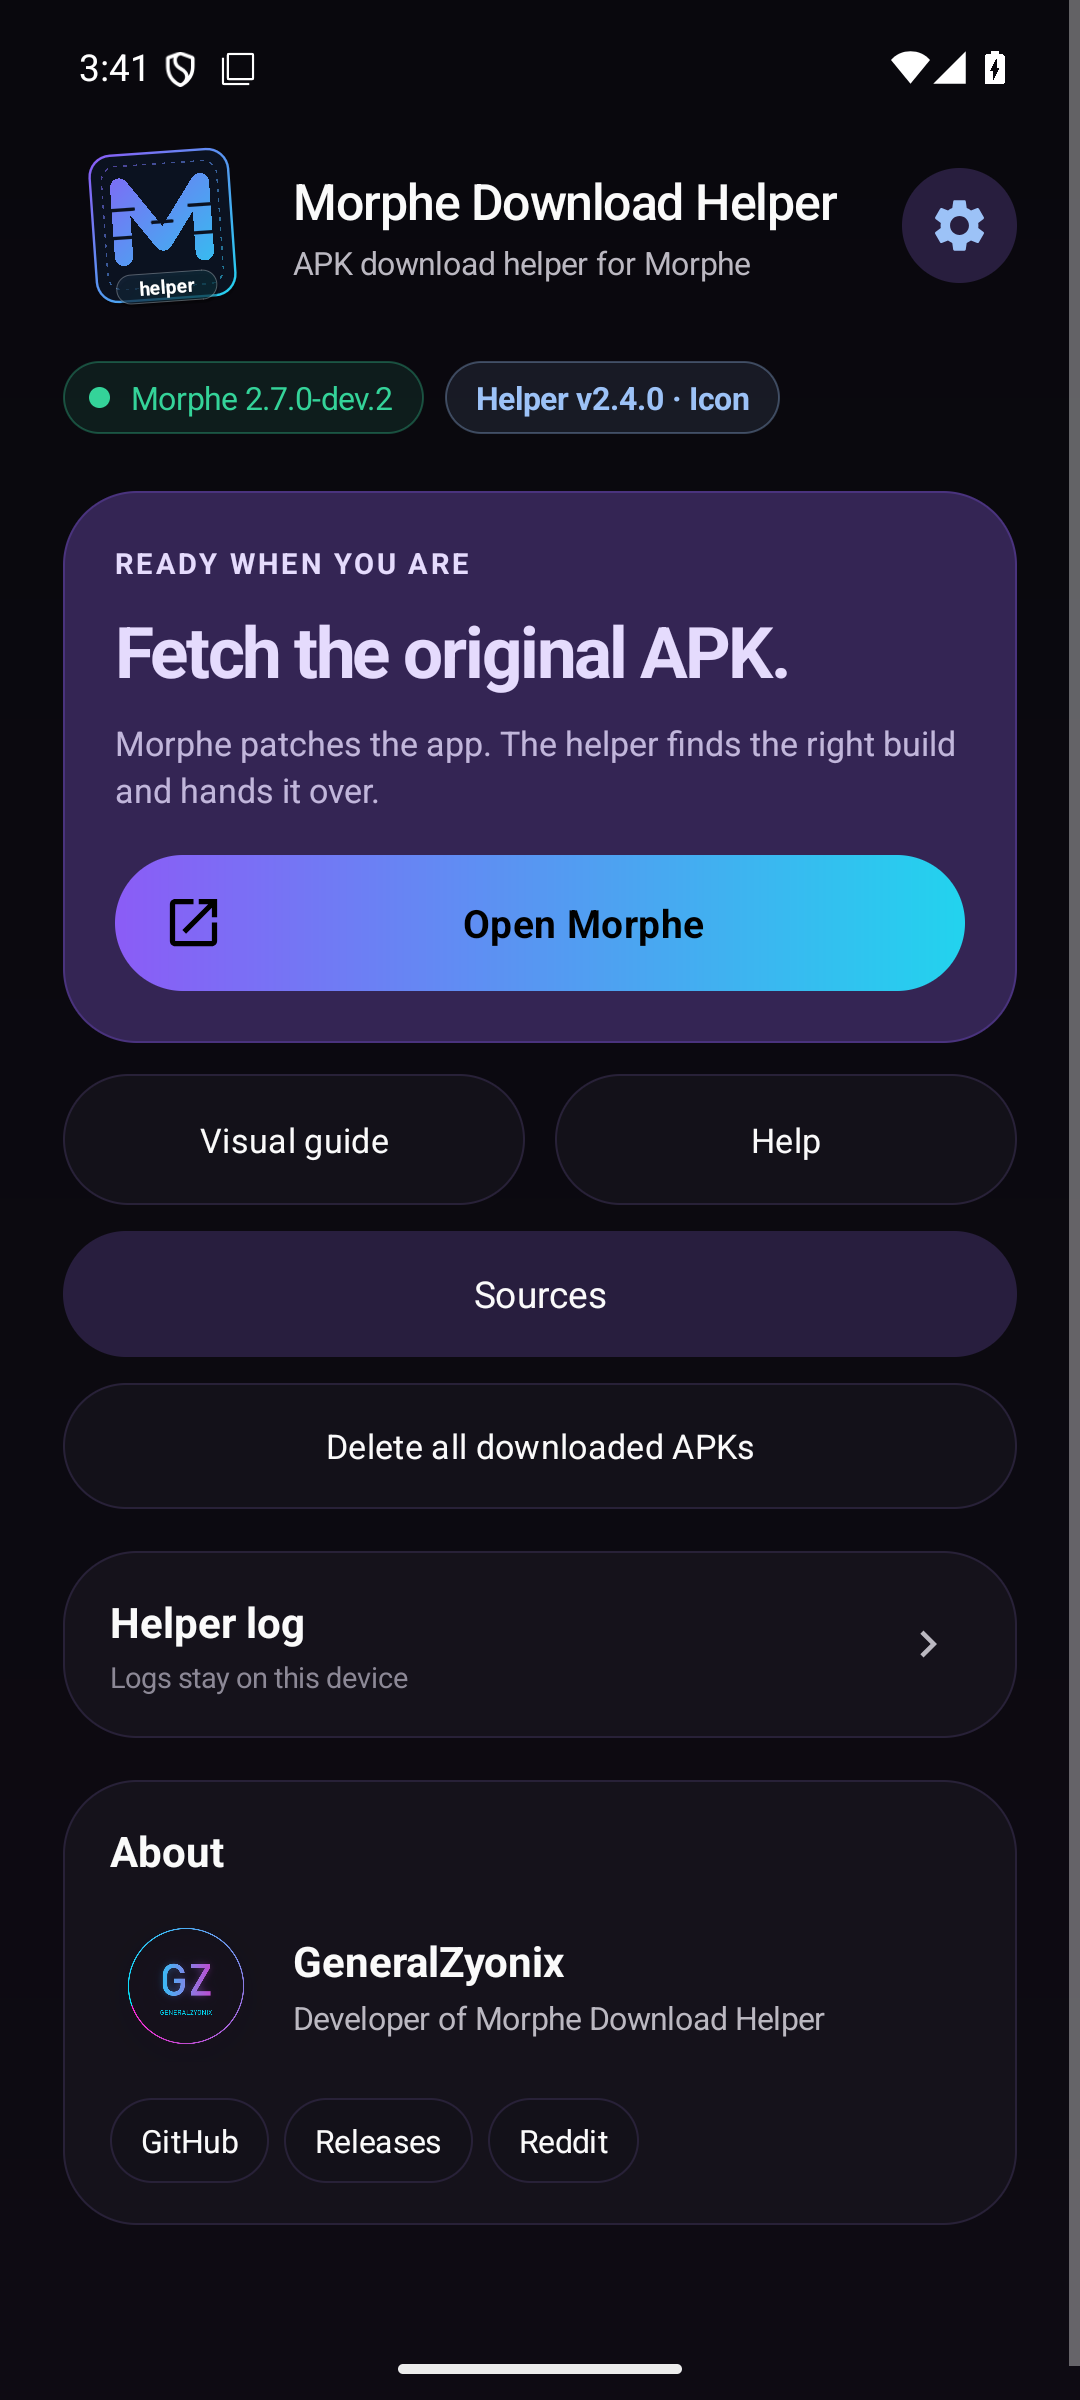
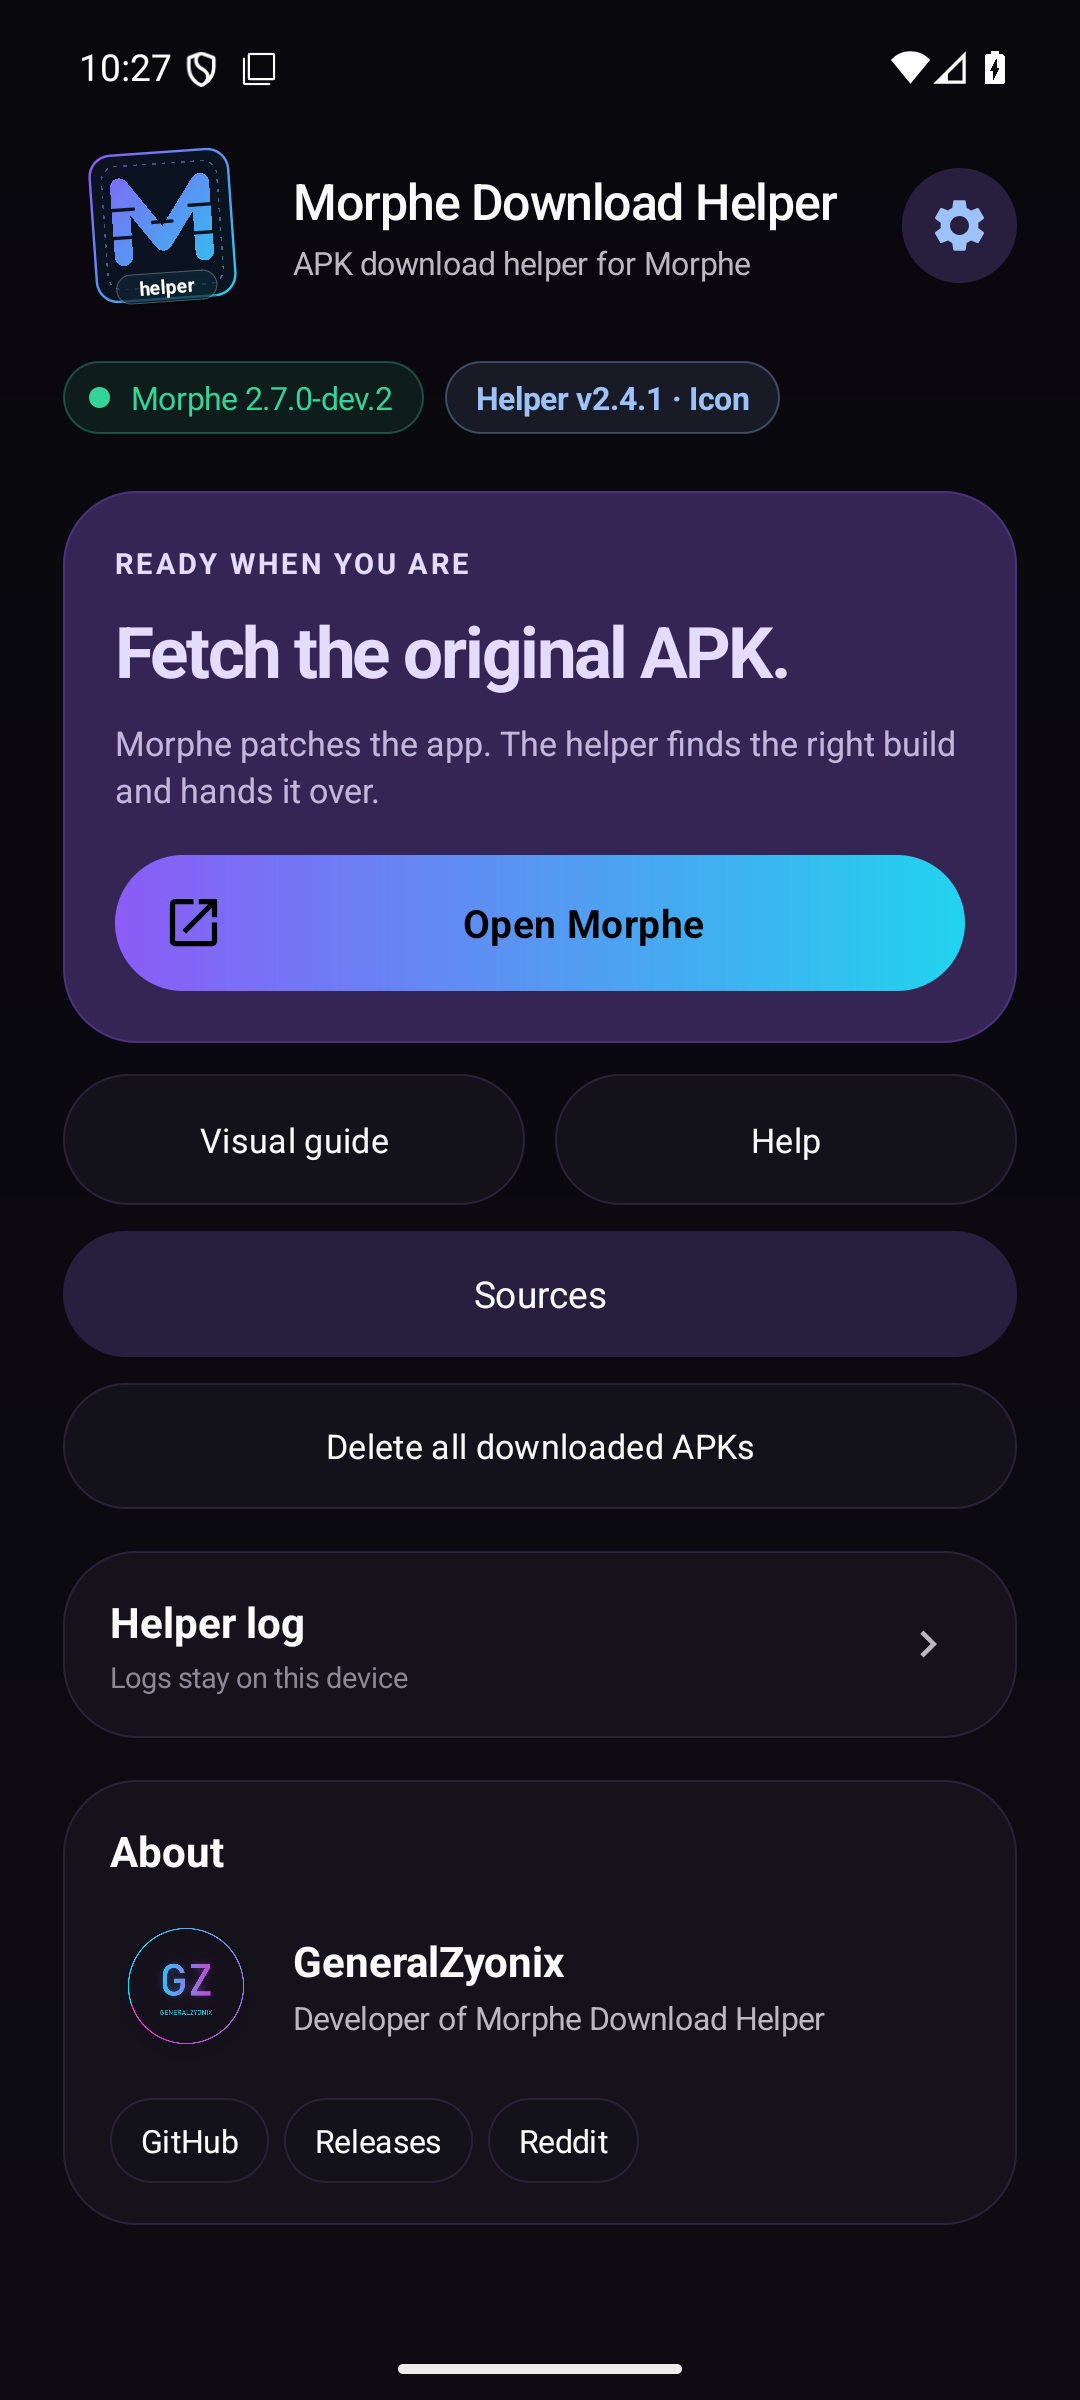
Release v2.4.1 pre-release with compact log and Sources fixes

Changed region(s): [[0.9778, 0.0, 1.0, 1.0], [0.0917, 0.0, 0.2139, 0.0312]]

diff --git a/app/src/main/java/be/alterra/morphehelper/MainActivity.java b/app/src/main/java/be/alterra/morphehelper/MainActivity.java
@@ -418,49 +418,25 @@ public class MainActivity extends Activity {
         logHelp.setPadding(0, dp(8), 0, 0);
         logBody.addView(logHelp);
 
-        TextView shareLog = secondaryButton(getString(R.string.main_share_log),
-                R.drawable.ic_share, ACCENT_TEXT,
-                withAlpha(ACCENT_TEXT, 10), withAlpha(ACCENT_TEXT, 32));
-        shareLog.setOnClickListener(v -> shareLog());
-        TextView copyLog = secondaryButton(getString(R.string.main_copy_log),
-                R.drawable.ic_copy, TEXT, SECONDARY_BORDER);
-        copyLog.setOnClickListener(v -> copyLogToClipboard());
-        TextView saveLog = secondaryButton(getString(R.string.main_save_log),
-                R.drawable.ic_save, TEXT, SECONDARY_BORDER);
-        saveLog.setOnClickListener(v -> saveLog());
-        TextView clearLog = secondaryButton(getString(R.string.main_clear_log),
-                R.drawable.ic_delete, WARN_TITLE, SECONDARY_BORDER);
-        clearLog.setOnClickListener(v -> {
-            HelperLog.clear();
-            Toast.makeText(this, R.string.main_log_cleared, Toast.LENGTH_SHORT).show();
-        });
-
-        LinearLayout logRow1 = new LinearLayout(this);
-        logRow1.setOrientation(LinearLayout.HORIZONTAL);
-        LinearLayout.LayoutParams logFirstParams = new LinearLayout.LayoutParams(0, dp(48), 1f);
-        logFirstParams.setMarginEnd(dp(4));
-        logRow1.addView(shareLog, logFirstParams);
-        LinearLayout.LayoutParams logSecondParams = new LinearLayout.LayoutParams(0, dp(48), 1f);
-        logSecondParams.setMarginStart(dp(4));
-        logRow1.addView(copyLog, logSecondParams);
-
-        LinearLayout logRow2 = new LinearLayout(this);
-        logRow2.setOrientation(LinearLayout.HORIZONTAL);
-        LinearLayout.LayoutParams logThirdParams = new LinearLayout.LayoutParams(0, dp(48), 1f);
-        logThirdParams.setMarginEnd(dp(4));
-        logRow2.addView(saveLog, logThirdParams);
-        LinearLayout.LayoutParams logFourthParams = new LinearLayout.LayoutParams(0, dp(48), 1f);
-        logFourthParams.setMarginStart(dp(4));
-        logRow2.addView(clearLog, logFourthParams);
-
-        LinearLayout.LayoutParams logRow1Params = new LinearLayout.LayoutParams(
+        LinearLayout logActions = new LinearLayout(this);
+        logActions.setOrientation(LinearLayout.HORIZONTAL);
+        logActions.setGravity(Gravity.CENTER_VERTICAL);
+        logActions.addView(logAction(R.drawable.ic_share,
+                R.string.main_share_log, false, this::shareLog), logActionParams(true));
+        logActions.addView(logAction(R.drawable.ic_copy,
+                R.string.main_copy_log, false, this::copyLogToClipboard), logActionParams(true));
+        logActions.addView(logAction(R.drawable.ic_save,
+                R.string.main_save_log, false, this::saveLog), logActionParams(true));
+        logActions.addView(logAction(R.drawable.ic_delete,
+                R.string.main_clear_log, true, () -> {
+                    HelperLog.clear();
+                    Toast.makeText(this, R.string.main_log_cleared,
+                            Toast.LENGTH_SHORT).show();
+                }), logActionParams(false));
+        LinearLayout.LayoutParams logActionsParams = new LinearLayout.LayoutParams(
                 MATCH_PARENT, WRAP_CONTENT);
-        logRow1Params.topMargin = dp(14);
-        logBody.addView(logRow1, logRow1Params);
-        LinearLayout.LayoutParams logRow2Params = new LinearLayout.LayoutParams(
-                MATCH_PARENT, WRAP_CONTENT);
-        logRow2Params.topMargin = dp(8);
-        logBody.addView(logRow2, logRow2Params);
+        logActionsParams.topMargin = dp(14);
+        logBody.addView(logActions, logActionsParams);
 
         TextView previewLog = secondaryButton(getString(R.string.main_preview_log),
                 TEXT, SECONDARY_BORDER);
@@ -1075,6 +1051,42 @@ public class MainActivity extends Activity {
         });
         return view;
     }
+    /** Compact icon action used by the Helper log card. */
+    private View logAction(int iconRes, int labelRes, boolean danger, Runnable action) {
+        FrameLayout cell = new FrameLayout(this);
+        ImageView icon = new ImageView(this);
+        icon.setImageResource(iconRes);
+        icon.setScaleType(ImageView.ScaleType.FIT_CENTER);
+        icon.setColorFilter(danger ? RED : M3Ui.onSecondaryContainer(palette));
+        icon.setContentDescription(getString(labelRes));
+        if (Build.VERSION.SDK_INT >= Build.VERSION_CODES.O) {
+            icon.setTooltipText(getString(labelRes));
+        }
+        icon.setBackground(new RippleDrawable(
+                ColorStateList.valueOf(RIPPLE),
+                M3Ui.filled(this, danger
+                                ? M3Ui.errorContainer(palette)
+                                : M3Ui.secondaryContainer(palette),
+                        999, 0, 0), null));
+        icon.setPadding(dp(13), dp(13), dp(13), dp(13));
+        icon.setClickable(true);
+        icon.setFocusable(true);
+        icon.setOnClickListener(v -> action.run());
+        M3Ui.motion(icon);
+        cell.addView(icon, new FrameLayout.LayoutParams(
+                dp(48), dp(48), Gravity.CENTER));
+        return cell;
+    }
+
+    private LinearLayout.LayoutParams logActionParams(boolean marginEnd) {
+        LinearLayout.LayoutParams params = new LinearLayout.LayoutParams(
+                0, dp(56), 1f);
+        if (marginEnd) {
+            params.setMarginEnd(dp(4));
+        }
+        return params;
+    }
+
     private TextView secondaryButton(String label, int textColor, int strokeColor) {
         if (textColor == ACCENT_TEXT) {
             return M3Ui.tonalButton(this, palette, label, 0);

diff --git a/app/src/main/java/be/alterra/morphehelper/SettingsActivity.java b/app/src/main/java/be/alterra/morphehelper/SettingsActivity.java
@@ -210,7 +210,7 @@ public class SettingsActivity extends Activity {
 
         LinearLayout sources = addSection(root, SECTION_SOURCES,
                 R.string.settings_sources, R.string.settings_sources_summary,
-                R.drawable.ic_section_sources);
+                R.drawable.ic_section_sources, !openSources);
         addSourcesCard(sources);
         addApptekaWarningCard(sources);
         addGitHubAppsCard(sources);
@@ -339,6 +339,12 @@ public class SettingsActivity extends Activity {
      */
     private LinearLayout addSection(LinearLayout root, String key,
                                     int titleRes, int summaryRes, int iconRes) {
+        return addSection(root, key, titleRes, summaryRes, iconRes, true);
+    }
+
+    private LinearLayout addSection(LinearLayout root, String key,
+                                    int titleRes, int summaryRes, int iconRes,
+                                    boolean showHeader) {
         LinearLayout card = new LinearLayout(this);
         card.setOrientation(LinearLayout.VERTICAL);
         card.setBackground(cardBackground());
@@ -389,11 +395,13 @@ public class SettingsActivity extends Activity {
         chevron.setGravity(Gravity.CENTER);
         chevron.setImportantForAccessibility(View.IMPORTANT_FOR_ACCESSIBILITY_NO);
         header.addView(chevron, new LinearLayout.LayoutParams(dp(28), dp(36)));
-        card.addView(header);
+        if (showHeader) {
+            card.addView(header);
+        }
 
         LinearLayout body = new LinearLayout(this);
         body.setOrientation(LinearLayout.VERTICAL);
-        body.setPadding(dp(18), 0, dp(18), dp(16));
+        body.setPadding(dp(18), showHeader ? 0 : dp(14), dp(18), dp(16));
         card.addView(body);
         sectionBodies.put(key, body);
         sectionChevrons.put(key, chevron);

diff --git a/README.md b/README.md
@@ -41,13 +41,13 @@ It is a downloader, not a patcher. It never installs, modifies, or uploads an ap
 Grab one of the two current builds from the
 [Releases page](https://github.com/GeneralZyonix/morphe-download-helper/releases):
 
-> **2.4.0 is a pre-release.** The latest stable release is still 2.3.10. Use the
+> **2.4.1 is a pre-release.** The latest stable release is still 2.3.10. Use the
 > Releases page to choose between the stable and pre-release builds.
 
 | Build | Launcher icon | Best for |
 | --- | --- | --- |
-| **Icon** — `MorpheDownloadHelper-v2.4.0-universal.apk` | Always shown | Normal use. The icon appears immediately after installation. There is no hide toggle. |
-| **No-icon** — `MorpheDownloadHelper-v2.4.0-universal-noicon.apk` | Never shown | A clean app drawer. Open the helper from Morphe or Android Settings → Apps → Morphe Download Helper → Open. |
+| **Icon** — `MorpheDownloadHelper-v2.4.1-universal.apk` | Always shown | Normal use. The icon appears immediately after installation. There is no hide toggle. |
+| **No-icon** — `MorpheDownloadHelper-v2.4.1-universal-noicon.apk` | Never shown | A clean app drawer. Open the helper from Morphe or Android Settings → Apps → Morphe Download Helper → Open. |
 
 Both builds have the same package name, version, signing key, and features. Install one or
 the other, not both. The in-app updater stays on the build you installed. When switching
@@ -62,7 +62,7 @@ shortcut if your launcher keeps it.
 
 | Main screen | Download complete | Settings |
 | --- | --- | --- |
-| ![Main screen](docs/screenshots/main-2.4.0.png) | ![Download complete](docs/screenshots/download-2.4.0.png) | ![Settings](docs/screenshots/settings-general-2.4.0.png) |
+| ![Main screen](docs/screenshots/main-2.4.1.png) | ![Download complete](docs/screenshots/download-2.4.1.png) | ![Settings](docs/screenshots/settings-general-2.4.1.png) |
 
 See the **[settings guide with screenshots](docs/SETTINGS.md)** for every section and what
 each option does.

diff --git a/GUIDE.md b/GUIDE.md
@@ -37,12 +37,12 @@ If this option is off, Morphe still works normally: it shows the download instru
 
 ## Visual guide
 
-The screenshots match the steps above and were taken with the 2.4.0 helper and Morphe Manager.
+The screenshots match the steps above and were taken with the 2.4.x helper and Morphe Manager.
 Tap an image to open it larger.
 
 | 1 — Open the settings row | 2 & 3 — Trust and auto-open |
 | --- | --- |
-| <a href="docs/guide/01-open-settings-2.4.0.png"><img src="docs/guide/01-open-settings-2.4.0.png" alt="Morphe Settings showing the APK download helper row" width="360"></a> | <a href="docs/guide/02-trust-and-auto-open-2.4.0.png"><img src="docs/guide/02-trust-and-auto-open-2.4.0.png" alt="Trusting Morphe Download Helper and enabling Open helper right away" width="360"></a> |
+| <a href="docs/guide/01-open-settings-2.4.1.png"><img src="docs/guide/01-open-settings-2.4.1.png" alt="Morphe Settings showing the APK download helper row" width="360"></a> | <a href="docs/guide/02-trust-and-auto-open-2.4.1.png"><img src="docs/guide/02-trust-and-auto-open-2.4.1.png" alt="Trusting Morphe Download Helper and enabling Open helper right away" width="360"></a> |
 
 ## Step 4: Use it while patching
 

diff --git a/docs/MATERIAL3_EXPRESSIVE.md b/docs/MATERIAL3_EXPRESSIVE.md
@@ -1,6 +1,6 @@
 # Material 3 Expressive test branch
 
-Status: **v2.4.0 pre-release, built from `material3-poc`.** `main` remains on
+Status: **v2.4.1 pre-release, built from `material3-poc`.** `main` remains on
 the stable v2.3.10 release.
 Branch: `material3-poc`  
 Base: `main` at v2.3.10 (`a05fea2`)
@@ -187,6 +187,7 @@ See `docs/branding/material3/`:
 - `download-dark.png`, `download-failure-light.png`
 - `update-dark.png`
 - `sources-sheet.png`
+- `log-actions-2.4.1.png`, `sources-compact-2.4.1.png`
 - `poc-standard.png`, `poc-brand.png`, `poc-sheet.png`
 
 ## Rollback
